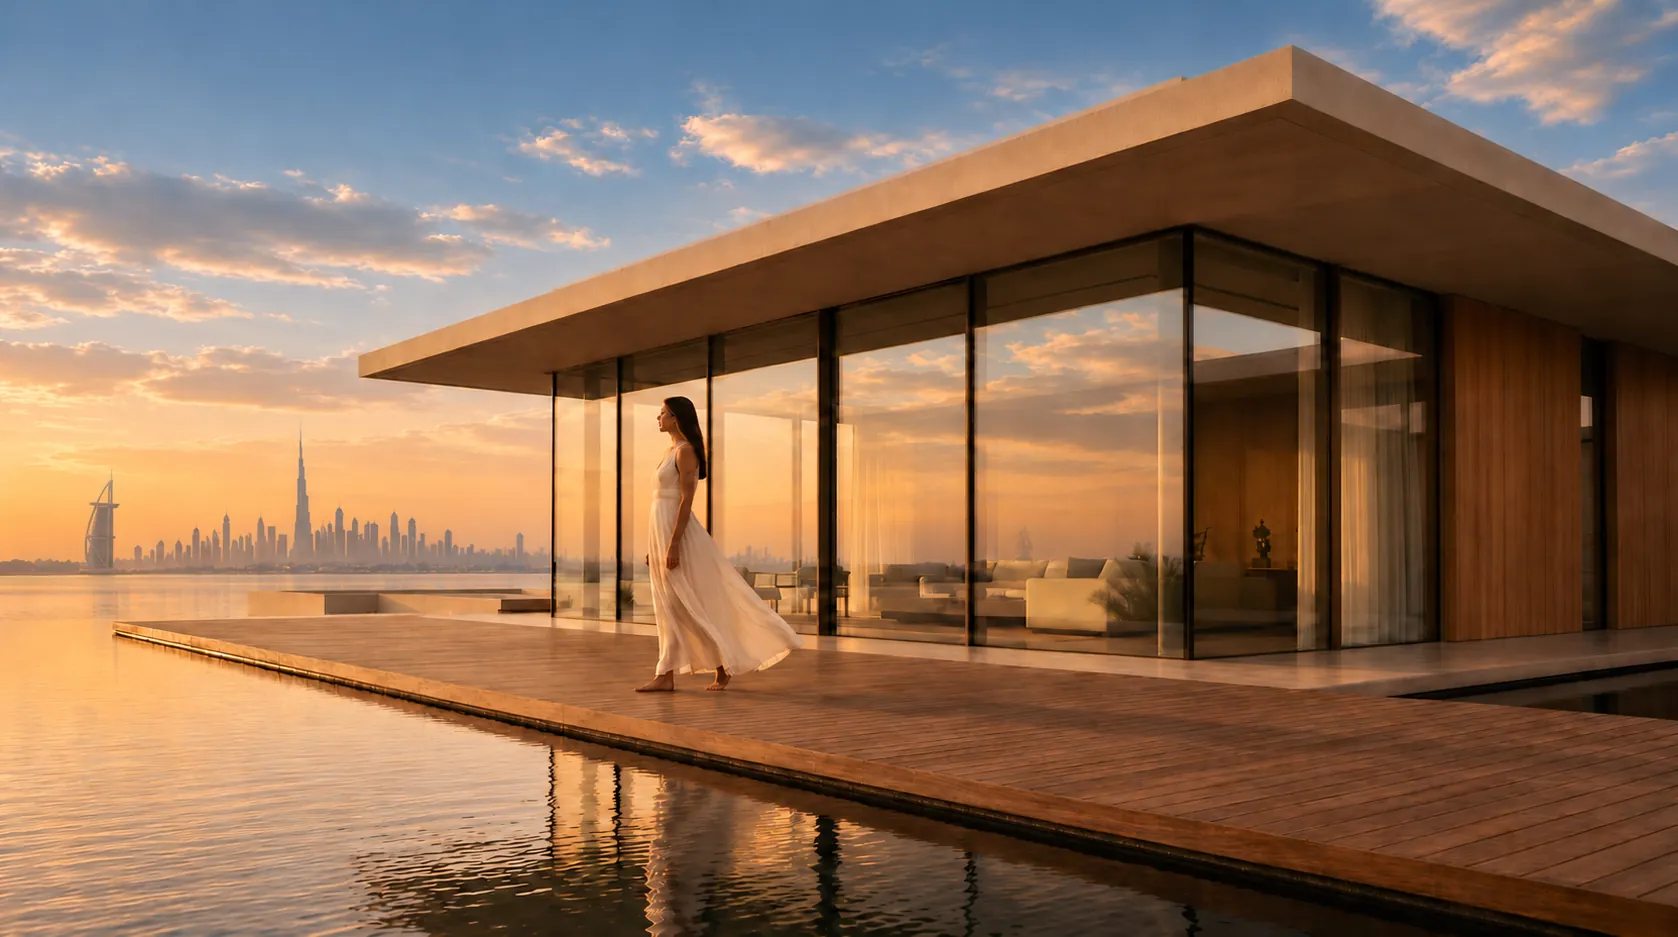
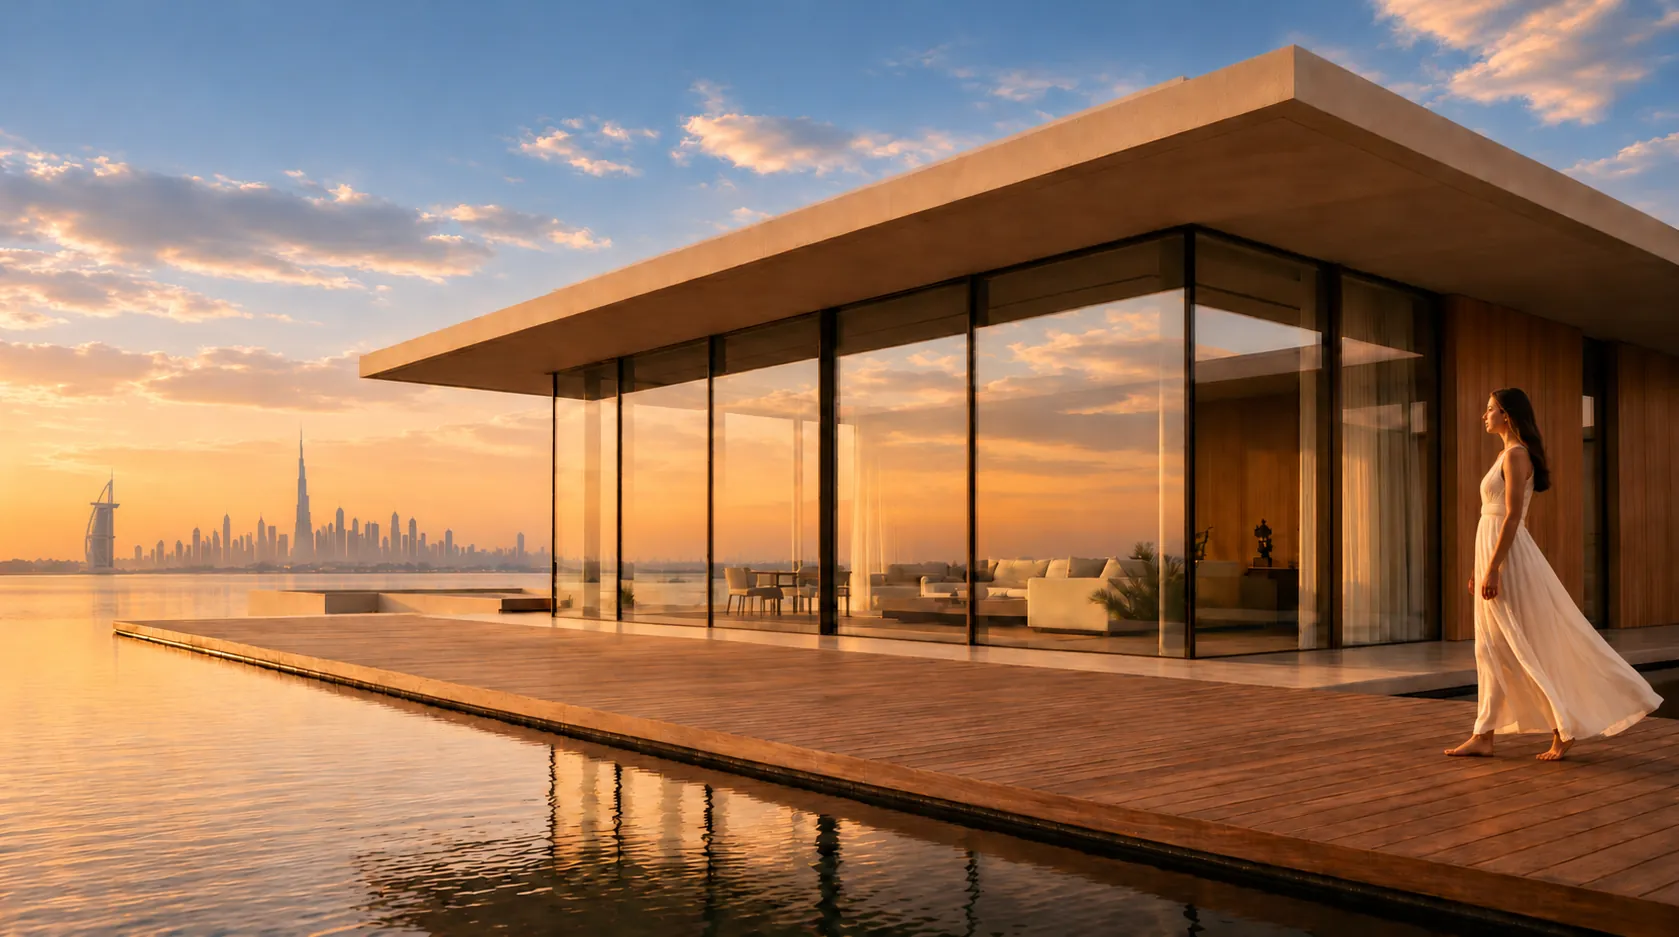
Buy: new header photo (girl at the right edge after mirroring), cache-busted
Claude-Session: https://claude.ai/code/session_01UcwUMtUjUZowF7MfKbm9bV

diff --git a/buy.html b/buy.html
@@ -180,7 +180,7 @@
 
 <!-- ======================================================== Coming soon -->
 <section class="soon" aria-labelledby="soon-h">
-  <div class="soon__bg" aria-hidden="true"><img src="assets/img/buy-hero.webp?v=1" alt="" width="1678" height="937" fetchpriority="high"></div>
+  <div class="soon__bg" aria-hidden="true"><img src="assets/img/buy-hero.webp?v=2" alt="" width="1679" height="937" fetchpriority="high"></div>
   <div class="shell soon__inner">
     <h1 class="soon__title" id="soon-h">Find your next property.</h1>
     <p class="soon__lede">Search over 1,200 projects on sale across Dubai and the UAE. <br>Describe what you want in your own words, or narrow it down with the filters.</p>

diff --git a/sw.js b/sw.js
@@ -4,7 +4,7 @@
    two after each deploy, which has already broken this site twice. Everything
    is network-first; the cache exists solely so an offline visit still renders.
    Bump CACHE to retire old stores. */
-const CACHE = 'obelum-v340';
+const CACHE = 'obelum-v341';
 
 self.addEventListener('install', (e) => {
   // Take over immediately rather than waiting for every old tab to close.
